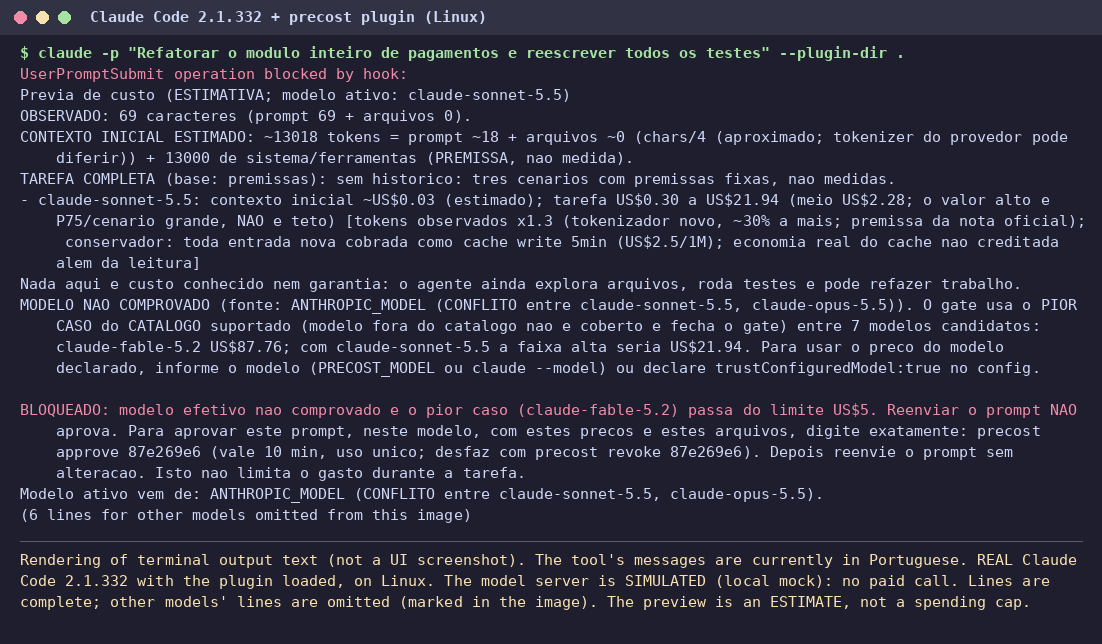
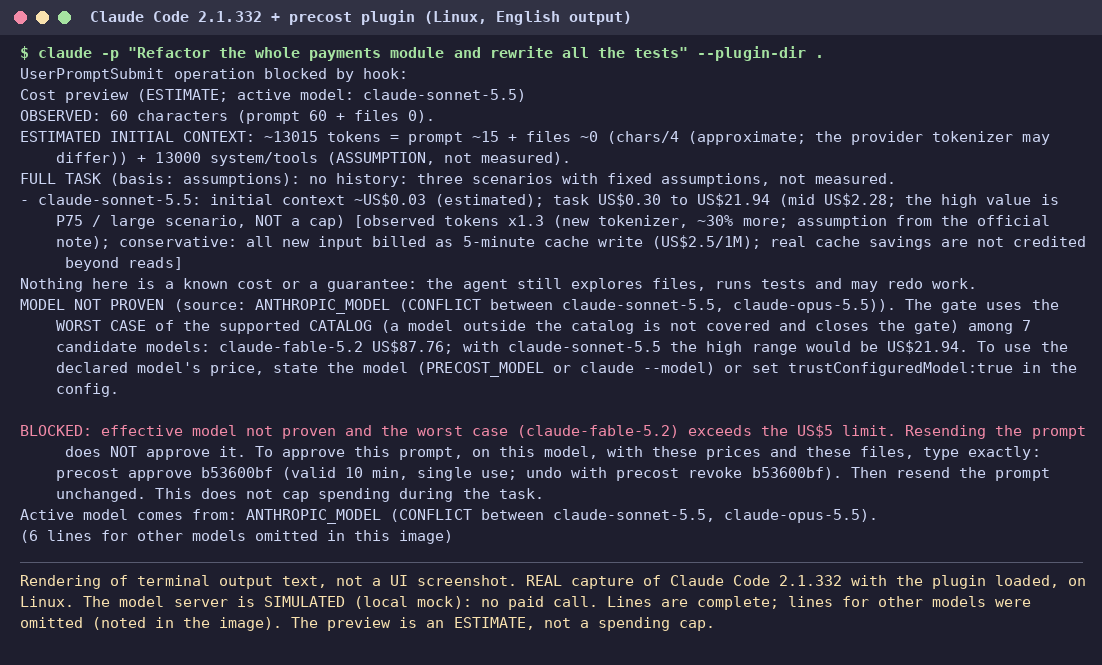
docs: language option, English demo images regenerated from real English output

diff --git a/README.md b/README.md
@@ -4,7 +4,7 @@
 
 Shows an **estimated** cost range *before* a task runs in a coding agent (OpenCode and Claude Code). Optionally asks for explicit approval when the high end of the range goes above a limit you set. No paid calls, no network access at run time.
 
-> Status: development version 0.3.0 (private repository, nothing published yet). Read "Limits" before relying on it. Messages printed by the tool (CLI, hook, plugin) are currently in Portuguese; see "Language" below.
+> Status: development version 0.3.0 (private repository, nothing published yet). Read "Limits" before relying on it.
 
 ## What it does
 
@@ -64,7 +64,7 @@ What was actually executed is in the matrix in [docs/INSTALLATION.md](docs/INSTA
 
 ```
 npm ci            # installs the dev dependency @opencode-ai/plugin@1.19.6 (needed by the OpenCode adapter test)
-npm test          # 63 unit tests
+npm test          # 70 unit tests (English and Portuguese output)
 npm run e2e:native            # real Claude Code 2.1.332 and OpenCode 1.19.6 vs fake servers: block, approve, single use, fail closed
 npm run e2e:claude-plugin     # Claude Code plugin cycle (bash, Linux/macOS)
 npm run e2e:claude-plugin-failure   # hook crash / missing node / timeout never reach the model (bash)
@@ -87,7 +87,9 @@ More detail: [docs/CAPABILITIES.md](docs/CAPABILITIES.md).
 
 ## Language
 
-The documentation is available in English (main) and Portuguese (Brasil). The messages printed by the tool itself are still Portuguese only; an English default with a language setting is proposed but not implemented.
+The documentation is available in English (main) and Portuguese (Brasil). The messages printed by the tool (CLI, Claude Code hook, OpenCode plugin) are in English by default. For Portuguese, set `"lang": "pt"` in the config file (or the `lang` option of the OpenCode plugin), or set the environment variable `PRECOST_LANG=pt`. The config value wins over the environment variable. Only the text changes: commands (`precost approve CODE`, `precost revoke CODE`, `precost last`, `precost estimate ...`), approval codes, config keys and the gate's behavior are the same in both languages, and the tests check both.
+
+The notes in the price table (`data/prices.json`) are in English. Code comments in `src/` and `adapters/` and the messages of the test and e2e scripts are still partly Portuguese.
 
 ## License
 

diff --git a/README.pt-BR.md b/README.pt-BR.md
@@ -34,7 +34,7 @@ Matriz do que foi realmente executado (CI real do GitHub + execucao local): ver 
 ## Instalar e testar (reproduzivel)
 ```
 npm ci            # usa package-lock.json; instala a dependencia de dev @opencode-ai/plugin@1.19.6 (necessaria para o teste do adaptador OpenCode)
-npm test          # 63 testes; sem npm ci o teste do adaptador OpenCode falha por dependencia ausente
+npm test          # 70 testes (saida em ingles e em portugues); sem npm ci o teste do adaptador OpenCode falha por dependencia ausente
 node bin/precost.js doctor   # verifica instalacao local (limite: nao prova que o cliente carregou o hook)
 npm run e2e:opencode          # OpenCode 1.19.6 real, sem modelo: ciclo bloqueio/approve/uso unico (npx opencode-ai@1.19.6)
 npm run e2e:opencode-ledger   # OpenCode 1.19.6 real + provedor FALSO local: evento real do assistente, semantica de tokens/custo
@@ -64,3 +64,7 @@ npm run e2e:claude            # Claude Code 2.1.332 REAL + servidor Anthropic FA
 ## Licenca
 
 MIT. Veja [LICENSE](LICENSE). Copyright (c) 2026 Glauber Portella.
+
+## Idioma das mensagens
+
+As mensagens da propria ferramenta (CLI, hook do Claude Code, plugin do OpenCode) saem em **ingles por padrao**. Para portugues, coloque `"lang": "pt"` no config (ou a opcao `lang` do plugin OpenCode), ou defina `PRECOST_LANG=pt`. O valor do config vence a variavel de ambiente. So o texto muda: comandos (`precost approve CODIGO`, `precost revoke`, `precost last`, `precost estimate`), codigos de aprovacao, chaves do config e o comportamento do gate sao os mesmos nos dois idiomas, e os testes cobrem os dois. As imagens da documentacao mostram a saida real em ingles.

diff --git a/docs/INSTALLATION.md b/docs/INSTALLATION.md
@@ -23,7 +23,7 @@ Official client support on Windows (docs read 2026-11-25): Claude Code runs nati
 ```
 git clone git@github.com:jarbas-melo/opencode-precost.git && cd opencode-precost
 git checkout dev/0.3.0              # until release 0.3.0
-npm ci && npm test                    # 63 tests
+npm ci && npm test                    # 70 tests
 ```
 
 End-to-end tests against real third-party clients and FAKE local servers (no spend; they download pinned versions through npx): `npm run e2e:native` (all systems), or the bash variants `e2e:claude-plugin`, `e2e:claude-plugin-failure`, `e2e:claude`, `e2e:claude-tui`, `e2e:claude-failure`, `e2e:opencode`, `e2e:opencode-ledger`, `e2e:opencode-tui` (Linux/macOS).

diff --git a/docs/INSTALACAO.pt-BR.md b/docs/INSTALACAO.pt-BR.md
@@ -25,7 +25,7 @@ Linux nao e validacao de macOS/Windows. Caminhos de dados por plataforma (`~/.co
 ```
 git clone git@github.com:jarbas-melo/opencode-precost.git && cd opencode-precost
 git checkout dev/0.3.0               # ate a release 0.3.0
-npm ci && npm test                     # 63 testes
+npm ci && npm test                     # 70 testes
 ```
 Testes reais com software de terceiros contra servidores FALSOS locais (sem gasto, baixam versões fixas via npx): `npm run e2e:claude`, `e2e:claude-tui`, `e2e:claude-failure`, `e2e:opencode`, `e2e:opencode-ledger`, `e2e:opencode-tui`.
 
